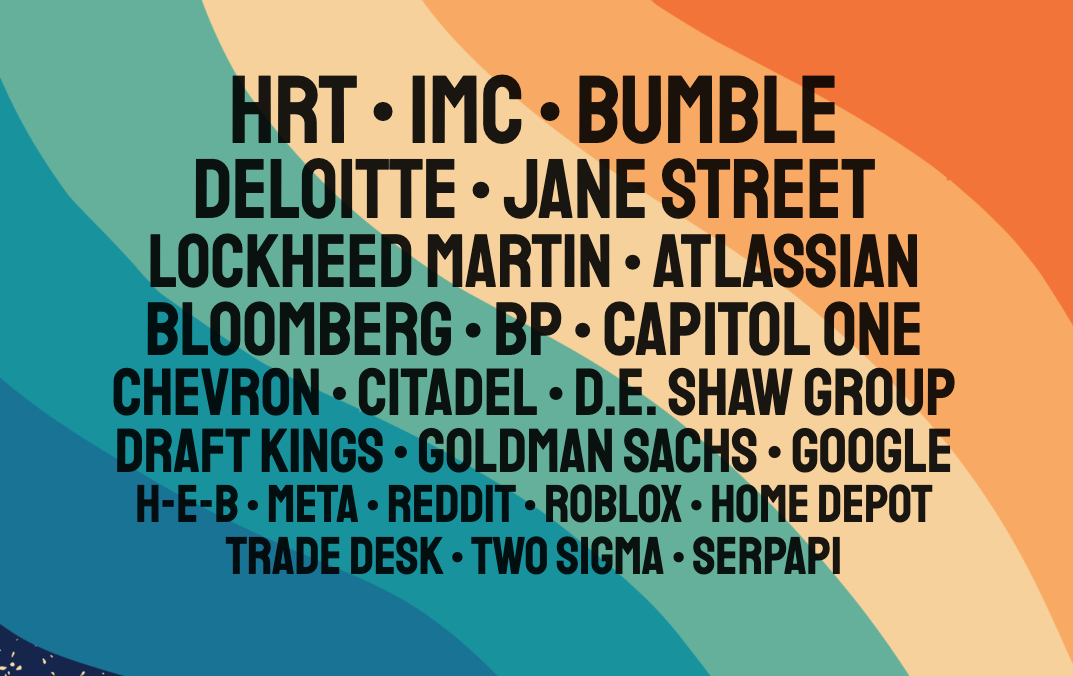
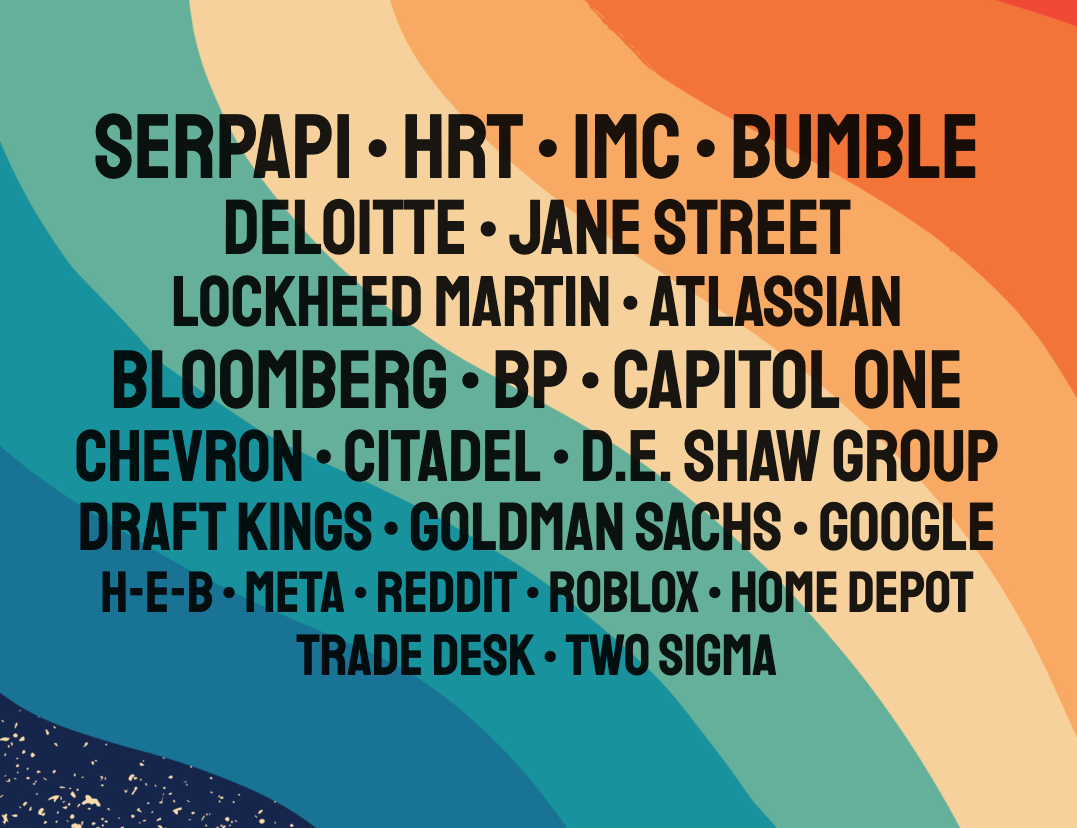
serpapi again

diff --git a/sponsors.html b/sponsors.html
@@ -257,7 +257,7 @@
                         style="background-image: url(images/sponsors/Deloitte.png);">
                         <div class="text text-center">
                             <h3><a style="font-size: 42px !important"
-                                    href="https://www.deloitte.com/global/en.html">Deloitte</a></h3>
+                                    target="_blank" href="https://www.deloitte.com/global/en.html">Deloitte</a></h3>
                         </div>
                     </div>
                 </div>
@@ -265,7 +265,7 @@
                     <div class="case img d-flex align-items-center justify-content-center"
                         style="background-image: url(images/sponsors/janestreet.png);">
                         <div class="text text-center">
-                            <h3><a style="font-size: 42px !important" href="https://www.janestreet.com/">Jane Street</a>
+                            <h3><a style="font-size: 42px !important" target="_blank" href="https://www.janestreet.com/">Jane Street</a>
                             </h3>
                         </div>
                     </div>
@@ -275,7 +275,16 @@
                         style="background-image: url(images/sponsors/lockheed.jpg);">
                         <div class="text text-center">
                             <h3><a style="font-size: 42px !important"
-                                    href="hhttps://www.lockheedmartin.com/en-us/index.html">Lockheed Martin</a>
+                                   target="_blank" href="hhttps://www.lockheedmartin.com/en-us/index.html">Lockheed Martin</a>
+                            </h3>
+                        </div>
+                    </div>
+                </div>
+                <div class="col-md-4 ftco-animate">
+                    <div class="case img d-flex align-items-center justify-content-center"
+                        style="background-image: url(images/sponsors/serpapi_logo.png);">
+                        <div class="text text-center">
+                            <h3><a style="font-size: 42px !important" href="https://serpapi.com/" target="_blank">SerpApi</a>
                             </h3>
                         </div>
                     </div>
@@ -293,7 +302,7 @@
                     <div class="case img d-flex align-items-center justify-content-center"
                         style="background-image: url(images/sponsors/atlassian.png);">
                         <div class="text text-center">
-                            <h3><a style="font-size: 42px !important" href="https://www.atlassian.com/">Atlassian</a>
+                            <h3><a target="_blank" style="font-size: 42px !important" href="https://www.atlassian.com/">Atlassian</a>
                             </h3>
                         </div>
                     </div>
@@ -302,7 +311,7 @@
                     <div class="case img d-flex align-items-center justify-content-center"
                         style="background-image: url(images/sponsors/bloomberg.png);">
                         <div class="text text-center">
-                            <h3><a style="font-size: 42px !important" href="https://www.bloomberg.com/">Bloomberg</a>
+                            <h3><a target="_blank" style="font-size: 42px !important" href="https://www.bloomberg.com/">Bloomberg</a>
                             </h3>
                         </div>
                     </div>
@@ -311,7 +320,7 @@
                     <div class="case img d-flex align-items-center justify-content-center"
                         style="background-image: url(images/sponsors/bp.png);">
                         <div class="text text-center">
-                            <h3><a style="font-size: 42px !important" href="https://www.bp.com/">BP</a></h3>
+                            <h3><a target="_blank" style="font-size: 42px !important" href="https://www.bp.com/">BP</a></h3>
                         </div>
                     </div>
                 </div>
@@ -319,7 +328,7 @@
                     <div class="case img d-flex align-items-center justify-content-center"
                         style="background-image: url(images/sponsors/CapitalOne.png);">
                         <div class="text text-center">
-                            <h3><a style="font-size: 42px !important" href="https://www.capitalone.com/">Capital One</a>
+                            <h3><a target="_blank" style="font-size: 42px !important" href="https://www.capitalone.com/">Capital One</a>
                             </h3>
                         </div>
                     </div>
@@ -328,7 +337,7 @@
                     <div class="case img d-flex align-items-center justify-content-center"
                         style="background-image: url(images/sponsors/chevron.jpg);">
                         <div class="text text-center">
-                            <h3><a style="font-size: 42px !important" href="https://www.chevron.com/">Chevron</a></h3>
+                            <h3><a target="_blank" style="font-size: 42px !important" href="https://www.chevron.com/">Chevron</a></h3>
                         </div>
                     </div>
                 </div>
@@ -336,7 +345,7 @@
                     <div class="case img d-flex align-items-center justify-content-center"
                         style="background-image: url(images/sponsors/citadel.png);">
                         <div class="text text-center">
-                            <h3><a style="font-size: 42px !important" href="https://www.citadel.com/">Citadel</a></h3>
+                            <h3><a target="_blank" style="font-size: 42px !important" href="https://www.citadel.com/">Citadel</a></h3>
                         </div>
                     </div>
                 </div>
@@ -344,7 +353,7 @@
                     <div class="case img d-flex align-items-center justify-content-center"
                         style="background-image: url(images/sponsors/DEShawAndCo.png);">
                         <div class="text text-center">
-                            <h3><a style="font-size: 42px !important" href="https://www.deshaw.com/">D. E. Shaw
+                            <h3><a target="_blank" style="font-size: 42px !important" href="https://www.deshaw.com/">D. E. Shaw
                                     Group</a></h3>
                         </div>
                     </div>
@@ -353,7 +362,7 @@
                     <div class="case img d-flex align-items-center justify-content-center"
                         style="background-image: url(images/sponsors/draftkings.png);">
                         <div class="text text-center">
-                            <h3><a style="font-size: 42px !important" href="https://www.draftkings.com/">Draft Kings</a>
+                            <h3><a target="_blank" style="font-size: 42px !important" href="https://www.draftkings.com/">Draft Kings</a>
                             </h3>
                         </div>
                     </div>
@@ -362,7 +371,7 @@
                     <div class="case img d-flex align-items-center justify-content-center"
                         style="background-image: url(images/sponsors/goldman.png);">
                         <div class="text text-center">
-                            <h3><a style="font-size: 42px !important" href="https://www.goldmansachs.com/">Goldman
+                            <h3><a target="_blank" style="font-size: 42px !important" href="https://www.goldmansachs.com/">Goldman
                                     Sachs</a></h3>
                         </div>
                     </div>
@@ -371,7 +380,7 @@
                     <div class="case img d-flex align-items-center justify-content-center"
                         style="background-image: url(images/sponsors/google.png);">
                         <div class="text text-center">
-                            <h3><a style="font-size: 42px !important" href="https://about.google/">Google</a></h3>
+                            <h3><a target="_blank" style="font-size: 42px !important" href="https://about.google/">Google</a></h3>
                         </div>
                     </div>
                 </div>
@@ -379,7 +388,7 @@
                     <div class="case img d-flex align-items-center justify-content-center"
                         style="background-image: url(images/sponsors/heb.jpg);">
                         <div class="text text-center">
-                            <h3><a style="font-size: 42px !important" href="https://www.heb.com/">H-E-B</a></h3>
+                            <h3><a target="_blank" style="font-size: 42px !important" href="https://www.heb.com/">H-E-B</a></h3>
                         </div>
                     </div>
                 </div>
@@ -387,7 +396,7 @@
                     <div class="case img d-flex align-items-center justify-content-center"
                         style="background-image: url(images/sponsors/hrt.png);">
                         <div class="text text-center">
-                            <h3><a style="font-size: 42px !important" href="https://www.hudsonrivertrading.com/">Hudson
+                            <h3><a target="_blank" style="font-size: 42px !important" href="https://www.hudsonrivertrading.com/">Hudson
                                     River Trading</a></h3>
                         </div>
                     </div>
@@ -396,7 +405,7 @@
                     <div class="case img d-flex align-items-center justify-content-center"
                         style="background-image: url(images/sponsors/meta.png);">
                         <div class="text text-center">
-                            <h3><a style="font-size: 42px !important" href="https://about.facebook.com/">Meta</a></h3>
+                            <h3><a target="_blank" style="font-size: 42px !important" href="https://about.facebook.com/">Meta</a></h3>
                         </div>
                     </div>
                 </div>
@@ -404,7 +413,7 @@
                     <div class="case img d-flex align-items-center justify-content-center"
                         style="background-image: url(images/sponsors/reddit.svg);">
                         <div class="text text-center">
-                            <h3><a style="font-size: 42px !important" href="https://www.redditinc.com/">Reddit</a></h3>
+                            <h3><a target="_blank" style="font-size: 42px !important" href="https://www.redditinc.com/">Reddit</a></h3>
                         </div>
                     </div>
                 </div>
@@ -412,7 +421,7 @@
                     <div class="case img d-flex align-items-center justify-content-center"
                         style="background-image: url(images/sponsors/Roblox.png);">
                         <div class="text text-center">
-                            <h3><a style="font-size: 42px !important" href="https://corp.roblox.com/">Roblox</a></h3>
+                            <h3><a target="_blank" style="font-size: 42px !important" href="https://corp.roblox.com/">Roblox</a></h3>
                         </div>
                     </div>
                 </div>
@@ -420,7 +429,7 @@
                     <div class="case img d-flex align-items-center justify-content-center"
                         style="background-image: url(images/sponsors/home_depot.png);">
                         <div class="text text-center">
-                            <h3><a style="font-size: 42px !important" href="https://careers.homedepot.com/">The Home
+                            <h3><a target="_blank" style="font-size: 42px !important" href="https://careers.homedepot.com/">The Home
                                     Depot</a></h3>
                         </div>
                     </div>
@@ -429,7 +438,7 @@
                     <div class="case img d-flex align-items-center justify-content-center"
                         style="background-image: url(images/sponsors/trade_desk.png);">
                         <div class="text text-center">
-                            <h3><a style="font-size: 42px !important" href="https://www.thetradedesk.com/us">The Trade
+                            <h3><a target="_blank" style="font-size: 42px !important" href="https://www.thetradedesk.com/us">The Trade
                                     Desk</a></h3>
                         </div>
                     </div>
@@ -438,16 +447,7 @@
                     <div class="case img d-flex align-items-center justify-content-center"
                         style="background-image: url(images/sponsors/two-sigma-logo.png);">
                         <div class="text text-center">
-                            <h3><a style="font-size: 42px !important" href="https://www.twosigma.com/">Two Sigma</a>
-                            </h3>
-                        </div>
-                    </div>
-                </div>
-                <div class="col-md-4 ftco-animate">
-                    <div class="case img d-flex align-items-center justify-content-center"
-                        style="background-image: url(images/sponsors/serpapi_logo.png);">
-                        <div class="text text-center">
-                            <h3><a style="font-size: 42px !important" href="https://serpapi.com/">SerpApi</a>
+                            <h3><a target="_blank" style="font-size: 42px !important" href="https://www.twosigma.com/">Two Sigma</a>
                             </h3>
                         </div>
                     </div>
